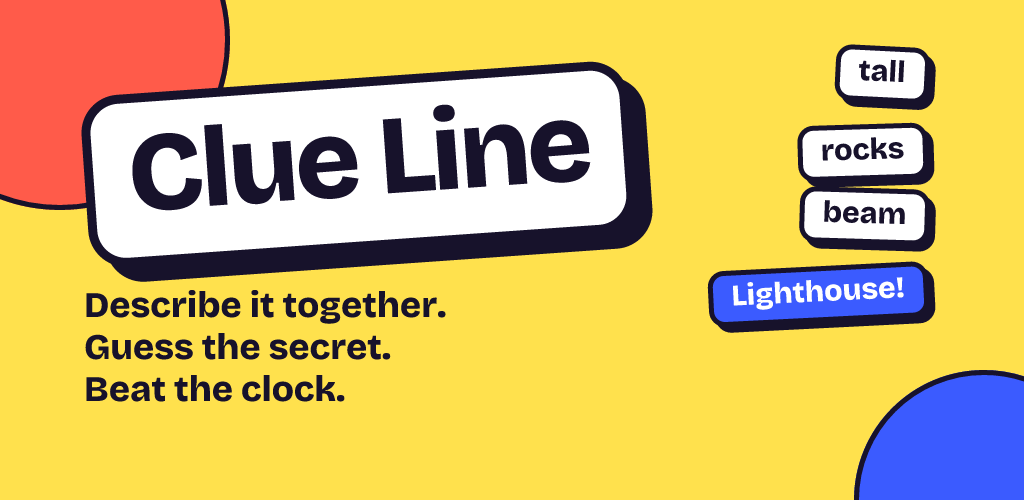
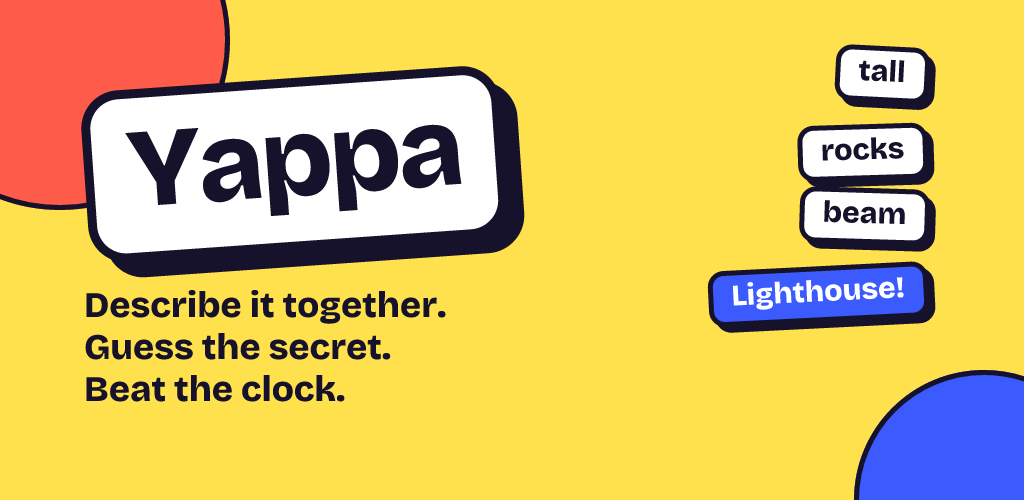
Rename the game back to Yappa
Every name players see in the app, website, share text, help pages and the
link-preview and Play Store artwork now says Yappa. The launcher name in
app.json and the splash wordmark wait for the next store build, since changing
them moves the runtime fingerprint and updates would stop reaching phones.

Changed region(s): [[0.0625, 0.12, 0.6562, 0.57]]

diff --git a/docs/privacy.html b/docs/privacy.html
@@ -3,14 +3,14 @@
 <head>
   <meta charset="utf-8">
   <meta name="viewport" content="width=device-width, initial-scale=1">
-  <title>Clue Line Privacy Policy</title>
-  <meta name="description" content="What the Clue Line word-chain party game collects, why, who it is shared with, and how long it is kept.">
+  <title>Yappa Privacy Policy</title>
+  <meta name="description" content="What the Yappa word-chain party game collects, why, who it is shared with, and how long it is kept.">
   <link rel="icon" href="icon.png">
   <link rel="stylesheet" href="style.css">
 </head>
 <body>
 <main>
-  <a class="wordmark" href="./">Clue Line</a>
+  <a class="wordmark" href="./">Yappa</a>
 
   <h1>Privacy Policy</h1>
   <p class="meta">Effective 13 October 2026</p>
@@ -18,16 +18,16 @@
   <div class="card">
     <h2>The short version</h2>
     <ul>
-      <li>You don't create an account or give us an email address. Clue Line signs you in with a random, anonymous ID.</li>
+      <li>You don't create an account or give us an email address. Yappa signs you in with a random, anonymous ID.</li>
       <li>We store the name you type and what happens in your games — the words, guesses and results — only so the game can be played. Games are deleted within 24 hours.</li>
       <li>If you choose <em>Play online</em>, you're matched with people you don't know, and they see your name and words.</li>
       <li>To judge guesses, game words (never your name or ID) are sent to an AI service, Anthropic.</li>
-      <li>No ads, no tracking, no selling of data. We only keep daily totals, like how many games were played, with nothing that identifies you. Clue Line doesn't use your location, contacts, camera or microphone.</li>
+      <li>No ads, no tracking, no selling of data. We only keep daily totals, like how many games were played, with nothing that identifies you. Yappa doesn't use your location, contacts, camera or microphone.</li>
     </ul>
   </div>
 
   <h2>Who we are</h2>
-  <p>Clue Line is a word-chain party game for 2 to 5 players, made by an independent developer (“we”, “us”). If you have a question about this policy or your data, email <a href="mailto:preciousngelale@gmail.com">preciousngelale@gmail.com</a>.</p>
+  <p>Yappa is a word-chain party game for 2 to 5 players, made by an independent developer (“we”, “us”). If you have a question about this policy or your data, email <a href="mailto:preciousngelale@gmail.com">preciousngelale@gmail.com</a>.</p>
 
   <h2>What we collect</h2>
   <div class="table-wrap">
@@ -107,9 +107,9 @@
   </ul>
 
   <h2 id="delete">Deleting your data</h2>
-  <p>Because Clue Line has no accounts, there's no sign-up to close. Your data is deleted automatically on the schedule above. You can also:</p>
+  <p>Because Yappa has no accounts, there's no sign-up to close. Your data is deleted automatically on the schedule above. You can also:</p>
   <ul>
-    <li>Delete everything on your device by uninstalling Clue Line, or with <em>Settings → Apps → Clue Line → Storage → Clear data</em>.</li>
+    <li>Delete everything on your device by uninstalling Yappa, or with <em>Settings → Apps → Yappa → Storage → Clear data</em>.</li>
     <li>Ask us to delete game data straight away by emailing <a href="mailto:preciousngelale@gmail.com?subject=Clue%20Line%20data%20deletion">preciousngelale@gmail.com</a>. Tell us the room code and roughly when you played so we can find it. We'll reply within 30 days.</li>
   </ul>
 
@@ -123,7 +123,7 @@
   <p>Data is encrypted in transit (HTTPS). The database only lets players read the games they're in, and the secret word is hidden from the guesser on our server, not just in the app.</p>
 
   <h2>Children</h2>
-  <p>Clue Line isn't directed at children under 13, and we don't knowingly collect personal data from them. If you believe a child has given us personal data, email us and we'll delete it.</p>
+  <p>Yappa isn't directed at children under 13, and we don't knowingly collect personal data from them. If you believe a child has given us personal data, email us and we'll delete it.</p>
 
   <h2>International transfers</h2>
   <p>Our providers may process data in countries other than yours, including the United States. They protect it with safeguards such as standard contractual clauses.</p>
@@ -132,7 +132,7 @@
   <p>If we change this policy, we'll update this page and the date at the top. For significant changes we'll also say so in the app.</p>
 
   <nav>
-    <a href="./">Clue Line home</a>
+    <a href="./">Yappa home</a>
     <a href="delete.html">Delete your data</a>
     <a href="mailto:preciousngelale@gmail.com">Contact</a>
   </nav>

diff --git a/web/app/(game)/layout.tsx b/web/app/(game)/layout.tsx
@@ -3,7 +3,7 @@ import React from 'react';
 import { ClientShell } from '../../components/ClientShell';
 import './globals.css';
 
-const TITLE = 'Clue Line: Word Chain Party Game';
+const TITLE = 'Yappa: Word Chain Party Game';
 const DESCRIPTION =
   'A fast, loud word-chain party game for 2 to 5 friends. Chain words, lead the guesser to the secret word, beat the clock.';
 
@@ -13,13 +13,13 @@ const SITE_URL = process.env.VERCEL_PROJECT_PRODUCTION_URL
   ? `https://${process.env.VERCEL_PROJECT_PRODUCTION_URL}`
   : 'https://yappa-three.vercel.app';
 const OG_IMAGE = `${SITE_URL}/og.png`;
-const OG_IMAGE_ALT = 'Clue Line: describe it together, guess the secret, beat the clock.';
+const OG_IMAGE_ALT = 'Yappa: describe it together, guess the secret, beat the clock.';
 
 const INSTALL_SCRIPT = `
 window.addEventListener('beforeinstallprompt', function (e) {
   e.preventDefault();
   window.__installPrompt = e;
-  window.dispatchEvent(new Event('clueline:installable'));
+  window.dispatchEvent(new Event('yappa:installable'));
 });
 if ('serviceWorker' in navigator) {
   window.addEventListener('load', function () { navigator.serviceWorker.register('/sw.js').catch(function () {}); });
@@ -47,11 +47,11 @@ export default function RootLayout({ children }: { children: React.ReactNode }) 
       <head>
         <title>{TITLE}</title>
         <meta name="description" content={DESCRIPTION} />
-        <meta name="application-name" content="Clue Line" />
+        <meta name="application-name" content="Yappa" />
         <meta property="og:title" content={TITLE} />
         <meta property="og:description" content={DESCRIPTION} />
         <meta property="og:type" content="website" />
-        <meta property="og:site_name" content="Clue Line" />
+        <meta property="og:site_name" content="Yappa" />
         <meta property="og:url" content={SITE_URL} />
         <meta property="og:image" content={OG_IMAGE} />
         <meta property="og:image:type" content="image/png" />
@@ -63,18 +63,18 @@ export default function RootLayout({ children }: { children: React.ReactNode }) 
         <meta name="twitter:description" content={DESCRIPTION} />
         <meta name="twitter:image" content={OG_IMAGE} />
         <meta name="twitter:image:alt" content={OG_IMAGE_ALT} />
-        {/* Installable: "Add to Home Screen" opens it full screen with the Clue Line icon. */}
+        {/* Installable: "Add to Home Screen" opens it full screen with the Yappa icon. */}
         <link rel="manifest" href="/manifest.webmanifest" />
         <meta name="mobile-web-app-capable" content="yes" />
         <meta name="apple-mobile-web-app-capable" content="yes" />
-        <meta name="apple-mobile-web-app-title" content="Clue Line" />
+        <meta name="apple-mobile-web-app-title" content="Yappa" />
         <meta name="apple-mobile-web-app-status-bar-style" content="default" />
         {/* Android browsers fire their install offer once, often before the game has loaded:
             keep it for the install prompt (components/InstallPrompt.tsx) to show later. */}
         <script dangerouslySetInnerHTML={{ __html: INSTALL_SCRIPT }} />
       </head>
       <body>
-        <noscript>You need to enable JavaScript to play Clue Line.</noscript>
+        <noscript>You need to enable JavaScript to play Yappa.</noscript>
         <div id="root">
           <ClientShell>{children}</ClientShell>
         </div>

diff --git a/web/app/(card)/c/[id]/page.tsx b/web/app/(card)/c/[id]/page.tsx
@@ -10,15 +10,15 @@ type Props = { params: Promise<{ id: string }> };
 export async function generateMetadata({ params }: Props): Promise<Metadata> {
   const { id } = await params;
   const card = await getCard(id);
-  if (!card) return { title: 'Clue Line' };
+  if (!card) return { title: 'Yappa' };
   const { won, outOf, verdict } = summarise(card);
-  const title = `We scored ${won}/${outOf} on Clue Line: ${verdict}`;
+  const title = `We scored ${won}/${outOf} on Yappa: ${verdict}`;
   const description = 'A word-chain party game for 2 to 5 friends. Chain words, lead the guesser to the secret word, beat the clock.';
-  const image = { url: `${SITE_URL}/c/${id}/image.png`, width: 1200, height: 630, alt: `Clue Line: ${won} of ${outOf} rounds won` };
+  const image = { url: `${SITE_URL}/c/${id}/image.png`, width: 1200, height: 630, alt: `Yappa: ${won} of ${outOf} rounds won` };
   return {
     title,
     description,
-    openGraph: { title, description, url: `${SITE_URL}/c/${id}`, siteName: 'Clue Line', type: 'website', images: [image] },
+    openGraph: { title, description, url: `${SITE_URL}/c/${id}`, siteName: 'Yappa', type: 'website', images: [image] },
     twitter: { card: 'summary_large_image', title, description, images: [image] },
   };
 }
@@ -43,7 +43,7 @@ export default async function CardPage({ params }: Props) {
         src={`/c/${id}/image.png`}
         width={1200}
         height={630}
-        alt={`Clue Line: ${won} of ${outOf} rounds won. ${verdict}.`}
+        alt={`Yappa: ${won} of ${outOf} rounds won. ${verdict}.`}
         style={{ width: '100%', height: 'auto', ...sticker, borderRadius: 16 }}
       />
 
@@ -60,7 +60,7 @@ export default async function CardPage({ params }: Props) {
           padding: '16px 20px',
         }}
       >
-        Play Clue Line free
+        Play Yappa free
       </a>
 
       <section style={{ ...sticker, padding: '8px 20px 12px' }}>
@@ -82,7 +82,7 @@ export default async function CardPage({ params }: Props) {
       </section>
 
       <p style={{ textAlign: 'center', fontSize: 15, margin: 0 }}>
-        Clue Line is a word-chain party game for 2 to 5 friends, each on their own phone.
+        Yappa is a word-chain party game for 2 to 5 friends, each on their own phone.
       </p>
     </main>
   );

diff --git a/web/components/InstallPrompt.tsx b/web/components/InstallPrompt.tsx
@@ -1,5 +1,5 @@
 'use client';
-// Asks a phone visitor to add Clue Line to their home screen when they open a link to it.
+// Asks a phone visitor to add Yappa to their home screen when they open a link to it.
 // Android browsers hand us an offer to do it (captured early in app/(game)/layout.tsx), so it
 // takes one tap; iPhones can't be asked directly, so we show where Add to Home Screen is.
 // Never shown on computers, once installed, or mid-game (only on the Home screen), and "Not
@@ -60,7 +60,7 @@ export function InstallPrompt() {
       setOffer(window.__installPrompt);
       setKind('offer');
     };
-    window.addEventListener('clueline:installable', takeOffer);
+    window.addEventListener('yappa:installable', takeOffer);
     // No install offer by now (iPhone, an in-app browser, Firefox): show the steps instead.
     const timer = setTimeout(() => {
       if (window.__installPrompt) takeOffer();
@@ -70,7 +70,7 @@ export function InstallPrompt() {
     window.addEventListener('appinstalled', onInstalled);
     return () => {
       clearTimeout(timer);
-      window.removeEventListener('clueline:installable', takeOffer);
+      window.removeEventListener('yappa:installable', takeOffer);
       window.removeEventListener('appinstalled', onInstalled);
     };
     // Once per page load, on Home.
@@ -107,7 +107,7 @@ export function InstallPrompt() {
       >
         <img src="/icons/icon-192.png" alt="" className="install-icon" />
         <h2 id="install-title" className="install-title">
-          Add Clue Line to your home screen?
+          Add Yappa to your home screen?
         </h2>
         <p className="install-text">
           Then it’s one tap away, like an app, and opens full screen. It’s free and takes a second.

diff --git a/docs/delete.html b/docs/delete.html
@@ -3,17 +3,17 @@
 <head>
   <meta charset="utf-8">
   <meta name="viewport" content="width=device-width, initial-scale=1">
-  <title>Delete Clue Line Data</title>
-  <meta name="description" content="How to delete the data the Clue Line game stores about you.">
+  <title>Delete Yappa Data</title>
+  <meta name="description" content="How to delete the data the Yappa game stores about you.">
   <link rel="icon" href="icon.png">
   <link rel="stylesheet" href="style.css">
 </head>
 <body>
 <main>
-  <a class="wordmark" href="./">Clue Line</a>
+  <a class="wordmark" href="./">Yappa</a>
 
   <h1>Delete your data</h1>
-  <p>Clue Line has no sign-up, email or password — it uses a random, anonymous player ID — so there's no account to close. Here's what's stored and how it's removed.</p>
+  <p>Yappa has no sign-up, email or password — it uses a random, anonymous player ID — so there's no account to close. Here's what's stored and how it's removed.</p>
 
   <div class="card">
     <h2>Deleted automatically</h2>
@@ -27,7 +27,7 @@
 
   <div class="card">
     <h2>Delete it yourself</h2>
-    <p>Uninstall Clue Line, or go to <em>Settings → Apps → Clue Line → Storage → Clear data</em>. This removes your name, settings and player ID from your phone.</p>
+    <p>Uninstall Yappa, or go to <em>Settings → Apps → Yappa → Storage → Clear data</em>. This removes your name, settings and player ID from your phone.</p>
   </div>
 
   <div class="card">
@@ -37,7 +37,7 @@
   </div>
 
   <nav>
-    <a href="./">Clue Line home</a>
+    <a href="./">Yappa home</a>
     <a href="privacy.html">Privacy Policy</a>
   </nav>
   <footer class="site-footer">

diff --git a/docs/index.html b/docs/index.html
@@ -3,16 +3,16 @@
 <head>
   <meta charset="utf-8">
   <meta name="viewport" content="width=device-width, initial-scale=1">
-  <title>Clue Line</title>
-  <meta name="description" content="Clue Line — a word-chain party game for 2 to 5 players. Chain words. Guess the secret. Beat the clock.">
+  <title>Yappa</title>
+  <meta name="description" content="Yappa — a word-chain party game for 2 to 5 players. Chain words. Guess the secret. Beat the clock.">
   <link rel="icon" href="icon.png">
   <link rel="stylesheet" href="style.css">
 </head>
 <body>
 <main>
-  <a class="wordmark" href="./">Clue Line</a>
+  <a class="wordmark" href="./">Yappa</a>
   <h1>Chain words. Guess the secret. Beat the clock.</h1>
-  <p>Clue Line is a word-chain party game for 2 to 5 players on their own phones. Each round, one player is the Guesser and everyone else knows the secret word. They take turns adding one-word clues, without saying the word or its off-limits words, while the Guesser races the clock to name it. Just two of you? Play duo.</p>
+  <p>Yappa is a word-chain party game for 2 to 5 players on their own phones. Each round, one player is the Guesser and everyone else knows the secret word. They take turns adding one-word clues, without saying the word or its off-limits words, while the Guesser races the clock to name it. Just two of you? Play duo.</p>
 
   <div class="card">
     <h2>Support</h2>

diff --git a/web/app/(card)/c/[id]/image.png/route.tsx b/web/app/(card)/c/[id]/image.png/route.tsx
@@ -70,7 +70,7 @@ export async function GET(_req: Request, { params }: { params: Promise<{ id: str
         {/* Left: wordmark, score, verdict. */}
         <div style={{ display: 'flex', flexDirection: 'column', width: 420, gap: 26 }}>
           <div style={{ ...sticker(WHITE, 8), alignSelf: 'flex-start', padding: '0 26px 6px', transform: 'rotate(-4deg)', fontSize: 64, fontWeight: 800, letterSpacing: -2 }}>
-            Clue Line
+            Yappa
           </div>
           <div style={{ ...sticker(WHITE), flexDirection: 'column', alignItems: 'center', padding: '18px 24px 22px', marginTop: 10 }}>
             <div style={{ display: 'flex', alignItems: 'baseline', gap: 8 }}>

diff --git a/src/lib/shareRoom.web.ts b/src/lib/shareRoom.web.ts
@@ -13,10 +13,10 @@ export function joinLink(roomCode: string): string {
  */
 export async function shareRoom(roomCode: string): Promise<ShareResult> {
   const url = joinLink(roomCode);
-  const text = `Join my Clue Line game! Room code: ${roomCode}`;
+  const text = `Join my Yappa game! Room code: ${roomCode}`;
   if (typeof navigator.share === 'function') {
     try {
-      await navigator.share({ title: 'Clue Line', text, url });
+      await navigator.share({ title: 'Yappa', text, url });
       return 'shared';
     } catch (e) {
       // Closing the share sheet isn't an error worth reporting.

diff --git a/app/game/round.tsx b/app/game/round.tsx
@@ -482,7 +482,7 @@ export default function RoundScreen() {
               const won = history.filter((h) => h.outcome === 'won').length;
               // A game ended early is scored out of the rounds played, as on the card.
               const outOf = Math.min(history.length, roomData.maxRounds);
-              return await shareCard(cardId, `We scored ${won}/${outOf} on Clue Line! Can you beat it?`);
+              return await shareCard(cardId, `We scored ${won}/${outOf} on Yappa! Can you beat it?`);
             } catch (e) {
               console.error(e);
               return 'failed';

diff --git a/app/lobby.tsx b/app/lobby.tsx
@@ -205,7 +205,7 @@ export default function LobbyScreen() {
       const message = errorText(e);
       setTeamError(
         message.includes('update the app')
-          ? 'Someone needs to update Clue Line to play versus.'
+          ? 'Someone needs to update Yappa to play versus.'
           : message.includes('too many players')
             ? `A normal game seats ${MAX_PLAYERS}. Someone needs to leave first.`
             : 'Couldn’t switch. Check your connection.',

diff --git a/src/lib/shareRoom.ts b/src/lib/shareRoom.ts
@@ -6,7 +6,7 @@ export type ShareResult = 'shared' | 'copied' | 'failed';
 /** Opens the system share sheet with the room code. */
 export async function shareRoom(roomCode: string): Promise<ShareResult> {
   try {
-    await Share.share({ message: `Join my Clue Line game! Room code: ${roomCode}` });
+    await Share.share({ message: `Join my Yappa game! Room code: ${roomCode}` });
     return 'shared';
   } catch (e) {
     console.error(e);

diff --git a/src/lib/shareCard.web.ts b/src/lib/shareCard.web.ts
@@ -13,7 +13,7 @@ export async function shareCard(cardId: string, text: string): Promise<ShareResu
   const url = cardLink(cardId);
   if (typeof navigator.share === 'function') {
     try {
-      await navigator.share({ title: 'Clue Line', text, url });
+      await navigator.share({ title: 'Yappa', text, url });
       return 'shared';
     } catch (e) {
       // Closing the share sheet isn't an error worth reporting.
